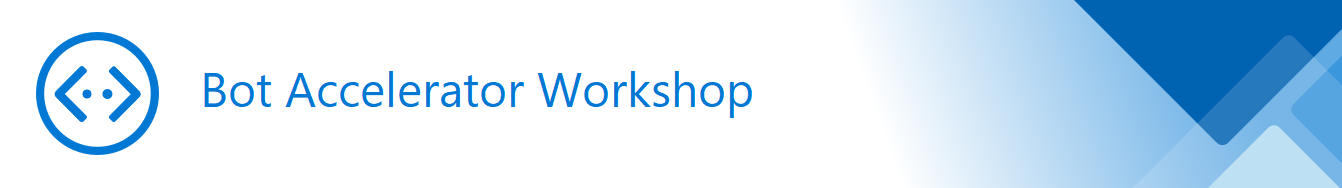
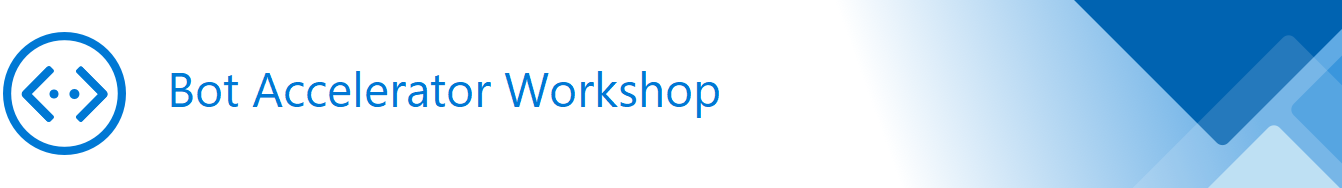
Changing table style

Changed region(s): [[0.0, 0.1596, 0.5805, 0.8245]]

diff --git a/README.md b/README.md
@@ -5,8 +5,8 @@ on the [Microsoft Bot Framework](https://dev.botframework.com/) and the [Virtual
 This repository is NOT an official Microsoft repository nor is it part of the Micorosoft Bot Framework but you should find
 it useful.
 
-## [Bot Development Accelerator Workshop](Workshop)
-This workshop is a "one-stop shop" for building your first enterprise bot.  Its part recipe, part master plan, which you can 
+## [Bot Accelerator Workshop](Workshop)
+This workshop is a step-by-step guide for building your first enterprise bot.  Its part recipe, part master plan, which you can 
 use to accelerate your bot journey from conception to production deployment. 
 
 ## [Secure Your Web Chat Control](SecuredWebChatControl)
